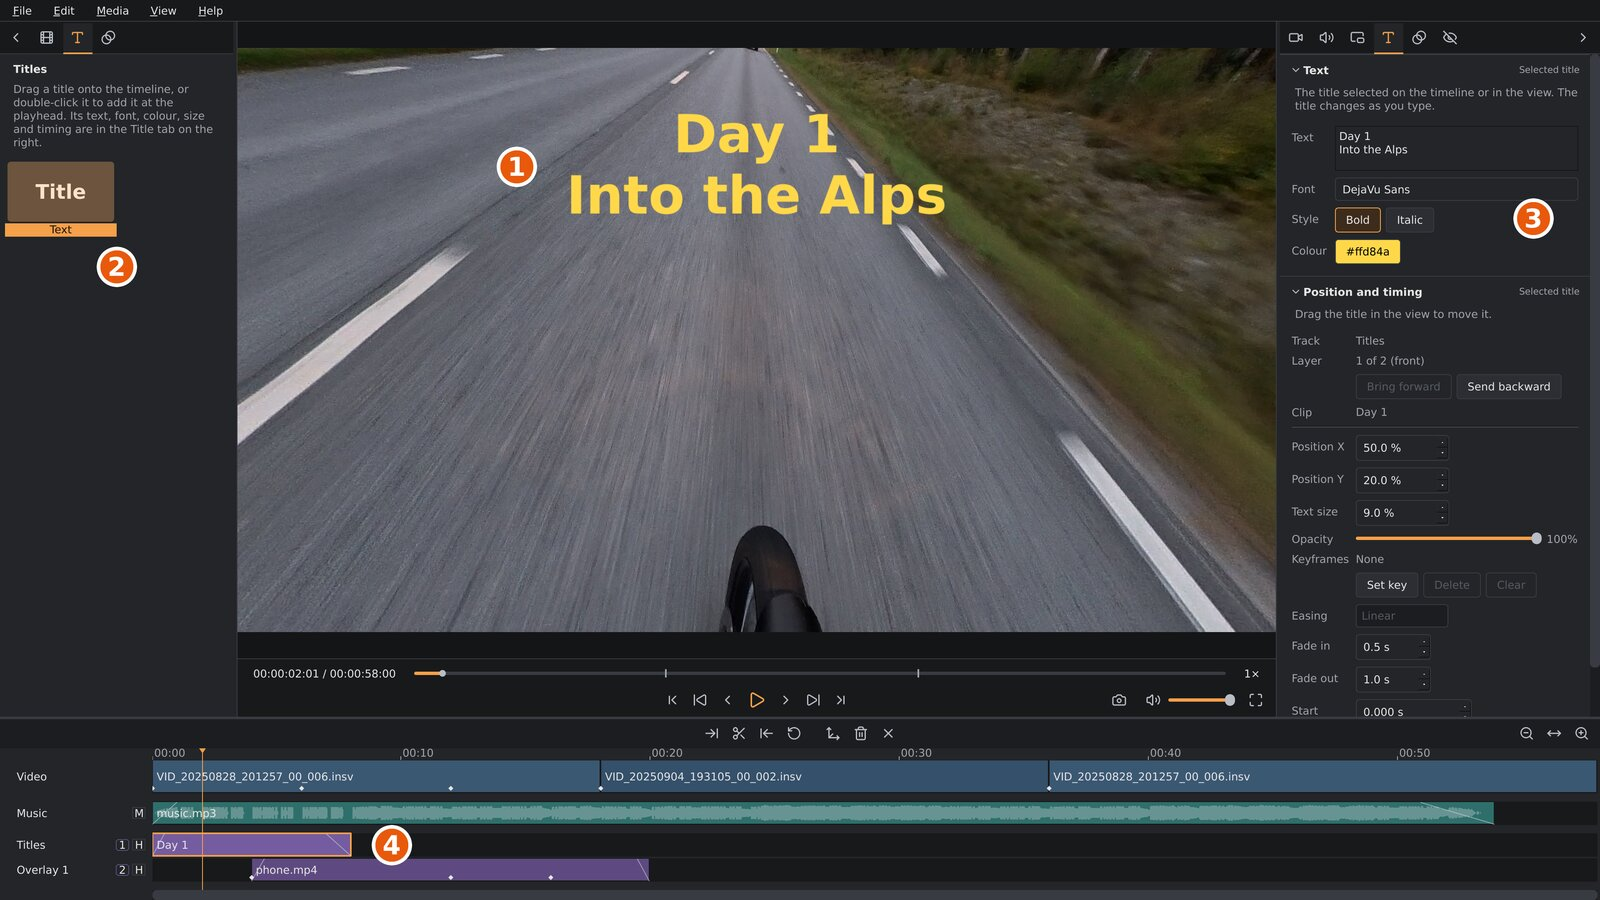
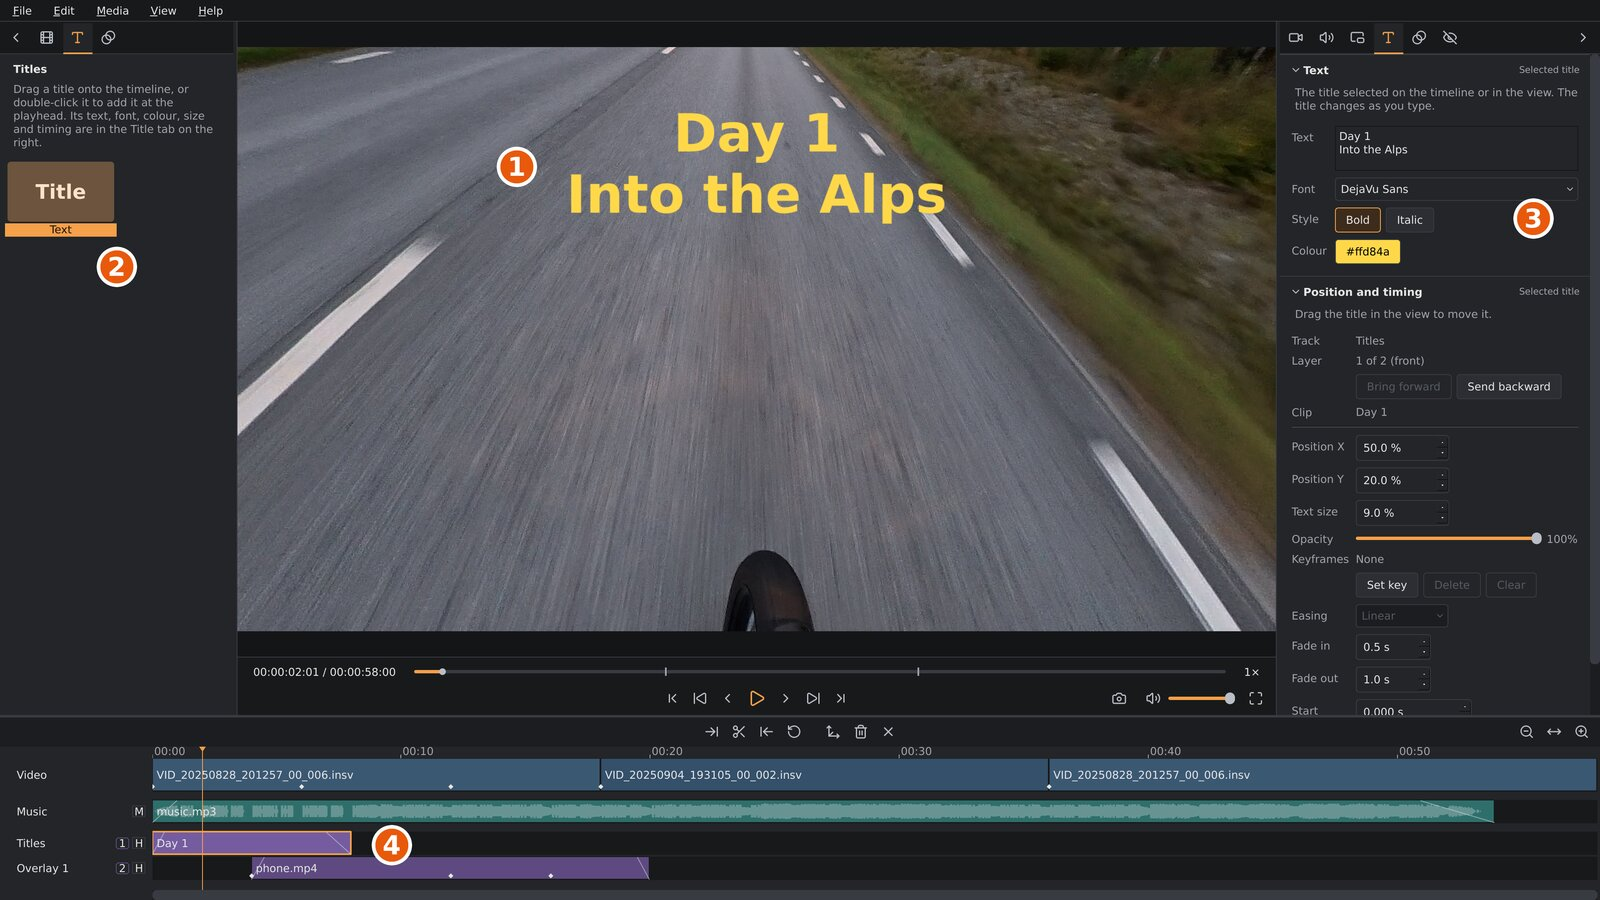
feat(ui): pick a title's font from a list, the last three on top
The Title tab's font box is a list of the installed fonts, each in its
own face, no longer a field to type into. The three fonts picked last
come first (app-wide). A project font that isn't installed is listed as
not installed and kept until another is picked.

diff --git a/src/ui/panels/TitleTextPanel.cpp b/src/ui/panels/TitleTextPanel.cpp
@@ -1,11 +1,58 @@
 #include "TitleTextPanel.h"
 
 #include <QColorDialog>
-#include <QFontComboBox>
+#include <QComboBox>
+#include <QFontDatabase>
+#include <QFontMetrics>
 #include <QFormLayout>
+#include <QHash>
 #include <QHBoxLayout>
 #include <QPlainTextEdit>
 #include <QPushButton>
+#include <QSettings>
+
+namespace {
+
+constexpr int kRecentFonts = 3;
+const QString kRecentKey = QStringLiteral("titles/recentFonts");
+
+QSettings settings()
+{
+    return QSettings(QStringLiteral("orbis-reframe"), QStringLiteral("orbis-reframe"));
+}
+
+// The installed families a title can use, sorted (private system families
+// aren't fonts to pick).
+QStringList installedFamilies()
+{
+    QStringList out;
+    for (const QString &f : QFontDatabase::families())
+        if (!QFontDatabase::isPrivateFamily(f))
+            out << f;
+    return out;
+}
+
+// The family's name drawn in its own face, when the face can draw it: symbol
+// and maths fonts that claim Latin may have no letters or empty ones.
+QFont previewFont(const QString &family, const QFont &base)
+{
+    static QHash<QString, bool> drawsName;
+    auto it = drawsName.find(family);
+    if (it == drawsName.end()) {
+        bool ok = QFontDatabase::writingSystems(family).contains(QFontDatabase::Latin);
+        const QFontMetrics m{QFont(family)};
+        for (const QChar ch : family)
+            ok = ok && m.inFont(ch);
+        it = drawsName.insert(family, ok && m.horizontalAdvance(family) > 0);
+    }
+    if (!*it)
+        return base;
+    QFont f(family);
+    f.setPointSizeF(base.pointSizeF());
+    return f;
+}
+
+} // namespace
 
 TitleTextPanel::TitleTextPanel(QWidget *parent) : SettingsPanel(tr("Text"), parent)
 {
@@ -16,10 +63,13 @@ TitleTextPanel::TitleTextPanel(QWidget *parent) : SettingsPanel(tr("Text"), pare
     m_text->setFixedHeight(m_text->fontMetrics().lineSpacing() * 3 + 12);
     m_text->setToolTip(tr("The title's text. Enter starts a new line."));
     form()->addRow(tr("Text"), m_text);
-    m_font = new QFontComboBox(this);
+    m_font = new QComboBox(this);
     m_font->setObjectName(QStringLiteral("titleFont"));
-    m_font->setToolTip(tr("The title's font."));
+    m_font->setToolTip(tr("The title's font: the fonts installed on this computer, the last "
+                          "ones you picked at the top. Type a name's first letters to jump "
+                          "to it."));
     m_font->setMinimumWidth(1); // long font names mustn't widen the sidebar
+    fillFonts(QString());
     form()->addRow(tr("Font"), m_font);
     m_styleRow = new QWidget(this);
     auto *styleLayout = new QHBoxLayout(m_styleRow);
@@ -45,7 +95,10 @@ TitleTextPanel::TitleTextPanel(QWidget *parent) : SettingsPanel(tr("Text"), pare
     };
     // Every keystroke: undo gathers a burst of edits into one step.
     connect(m_text, &QPlainTextEdit::textChanged, this, edited);
-    connect(m_font, &QFontComboBox::currentFontChanged, this, edited);
+    connect(m_font, &QComboBox::activated, this, [this, edited](int index) {
+        fontPicked(index);
+        edited();
+    });
     connect(m_bold, &QPushButton::toggled, this, edited);
     connect(m_italic, &QPushButton::toggled, this, edited);
     connect(m_color, &QPushButton::clicked, this, [this, edited] {
@@ -62,7 +115,7 @@ title::Style TitleTextPanel::current() const
 {
     title::Style t;
     t.text = m_text->toPlainText();
-    t.font = m_font->currentFont().family();
+    t.font = m_font->currentData().toString();
     t.bold = m_bold->isChecked();
     t.italic = m_italic->isChecked();
     t.rgb = m_rgb;
@@ -87,8 +140,8 @@ void TitleTextPanel::setTitle(const title::Style &s)
         w->setEnabled(true);
     if (m_text->toPlainText() != s.text)
         m_text->setPlainText(s.text);
-    if (m_font->currentFont().family() != s.font)
-        m_font->setCurrentFont(QFont(s.font));
+    if (m_font->currentData().toString() != s.font)
+        fillFonts(s.font);
     m_bold->setChecked(s.bold);
     m_italic->setChecked(s.italic);
     setColor(s.rgb);
@@ -110,4 +163,42 @@ void TitleTextPanel::setNoTitle(const QString &hint)
                                 "on the left: drag it onto the timeline or double-click it.")
                            : hint);
     m_updating = false;
+}
+
+void TitleTextPanel::fillFonts(const QString &family)
+{
+    const QStringList installed = installedFamilies();
+    QStringList recent;
+    for (const QString &f : settings().value(kRecentKey).toStringList())
+        if (installed.contains(f) && recent.size() < kRecentFonts)
+            recent << f;
+    const QFont base = m_font->font();
+    const auto add = [&](const QString &text, const QString &f, const QFont &look) {
+        m_font->addItem(text, f);
+        m_font->setItemData(m_font->count() - 1, look, Qt::FontRole);
+    };
+    const QSignalBlocker block(m_font);
+    m_font->clear();
+    if (!family.isEmpty() && !installed.contains(family))
+        add(tr("%1 (not installed)").arg(family), family, base);
+    for (const QString &f : recent)
+        add(f, f, previewFont(f, base));
+    if (m_font->count() > 0)
+        m_font->insertSeparator(m_font->count());
+    for (const QString &f : installed)
+        add(f, f, previewFont(f, base));
+    m_font->setCurrentIndex(family.isEmpty() ? -1 : m_font->findData(family));
+}
+
+void TitleTextPanel::fontPicked(int index)
+{
+    const QString family = m_font->itemData(index).toString();
+    if (family.isEmpty() || !installedFamilies().contains(family))
+        return;
+    QSettings s = settings();
+    QStringList recent = s.value(kRecentKey).toStringList();
+    recent.removeAll(family);
+    recent.prepend(family);
+    s.setValue(kRecentKey, recent.mid(0, kRecentFonts));
+    fillFonts(family);
 }

diff --git a/tests/settings_sidebar_test.cpp b/tests/settings_sidebar_test.cpp
@@ -28,6 +28,7 @@
 #include "panels/StitchingPanel.h"
 
 #include <QApplication>
+#include <QFontDatabase>
 #include <QTemporaryDir>
 #include <QSlider>
 #include <QCheckBox>
@@ -425,6 +426,36 @@ void testTitleTab(SettingsSidebar &bar)
     bold->click();
     CHECK(spy.count() == 1 && spy.last().at(0).value<title::Style>().bold &&
           spy.last().at(0).value<title::Style>().text == "Day 1");
+
+    // The font: a list to pick from, not a field; a pick is reported and goes
+    // to the top; a font that isn't installed is kept, not replaced.
+    auto *font = find<QComboBox>(text, "titleFont");
+    QStringList families;
+    for (const QString &f : QFontDatabase::families())
+        if (!QFontDatabase::isPrivateFamily(f))
+            families << f;
+    if (font && families.size() >= 2) {
+        CHECK(!font->isEditable());
+        s.font = families.at(0);
+        text->setTitle(s);
+        CHECK(font->currentData().toString() == families.at(0) && spy.count() == 1);
+        const int other = font->findData(families.at(1));
+        CHECK(other >= 0);
+        font->setCurrentIndex(other);
+        emit font->activated(other);
+        CHECK(spy.count() == 2 && spy.last().at(0).value<title::Style>().font == families.at(1));
+        CHECK(font->itemData(0).toString() == families.at(1)); // recent, on top
+        CHECK(font->currentData().toString() == families.at(1));
+        s.font = "No Such Font 12";
+        text->setTitle(s);
+        CHECK(spy.count() == 2 && font->currentIndex() == 0 &&
+              font->currentText().contains("not installed"));
+        bold->click();
+        CHECK(spy.count() == 3 && spy.last().at(0).value<title::Style>().font == "No Such Font 12");
+        bold->click();
+    } else {
+        CHECK(font);
+    }
     text->setNoTitle(QString());
     CHECK(!edit->isEnabled());
 

diff --git a/src/ui/panels/TitleTextPanel.h b/src/ui/panels/TitleTextPanel.h
@@ -4,13 +4,15 @@
 
 #include "../../core/Title.h"
 
-class QFontComboBox;
+class QComboBox;
 class QPlainTextEdit;
 class QPushButton;
 class QWidget;
 
 // The Title tab's Text section: the selected title's text (several lines,
-// centred), font, bold / italic and colour (title::Style). Where it sits,
+// centred), font, bold / italic and colour (title::Style). The font list is
+// the installed families, each in its own face, with the last few picked
+// (app-wide, not the project's) at the top. Where it sits,
 // its size and timing are the tab's other section, an OverlayPanel of kind
 // Title.
 //
@@ -33,9 +35,14 @@ signals:
 private:
     title::Style current() const;
     void setColor(uint32_t rgb);
+    // Fill the font list: recent fonts, the installed ones, and `family` at
+    // the top when it isn't installed (a project from another computer), so
+    // it is kept until the user picks another. Selects `family`.
+    void fillFonts(const QString &family);
+    void fontPicked(int index);
 
     QPlainTextEdit *m_text = nullptr;
-    QFontComboBox *m_font = nullptr;
+    QComboBox *m_font = nullptr;
     QWidget *m_styleRow = nullptr;
     QPushButton *m_bold = nullptr;
     QPushButton *m_italic = nullptr;

diff --git a/docs/manual/titles.md b/docs/manual/titles.md
@@ -40,7 +40,7 @@ back again when you select an overlay video). The **Text** section:
 | Setting | What it does |
 |---|---|
 | **Text** | The title's text. `Enter` starts a new line; the lines are centred under each other. The title changes as you type. |
-| **Font** | The typeface. Every font installed on your computer is listed. |
+| **Font** | The typeface, picked from a list of every font installed on your computer, each shown in its own face. The three fonts you picked last are at the top. Type a name's first letters to jump to it. A project made on another computer may use a font that isn't installed here: it is listed as *(not installed)*, kept, and drawn with a similar font until you pick another. |
 | **Style** | **Bold** and **Italic**; click to switch them on or off. |
 | **Colour** | Click to choose the text's colour. |
 
